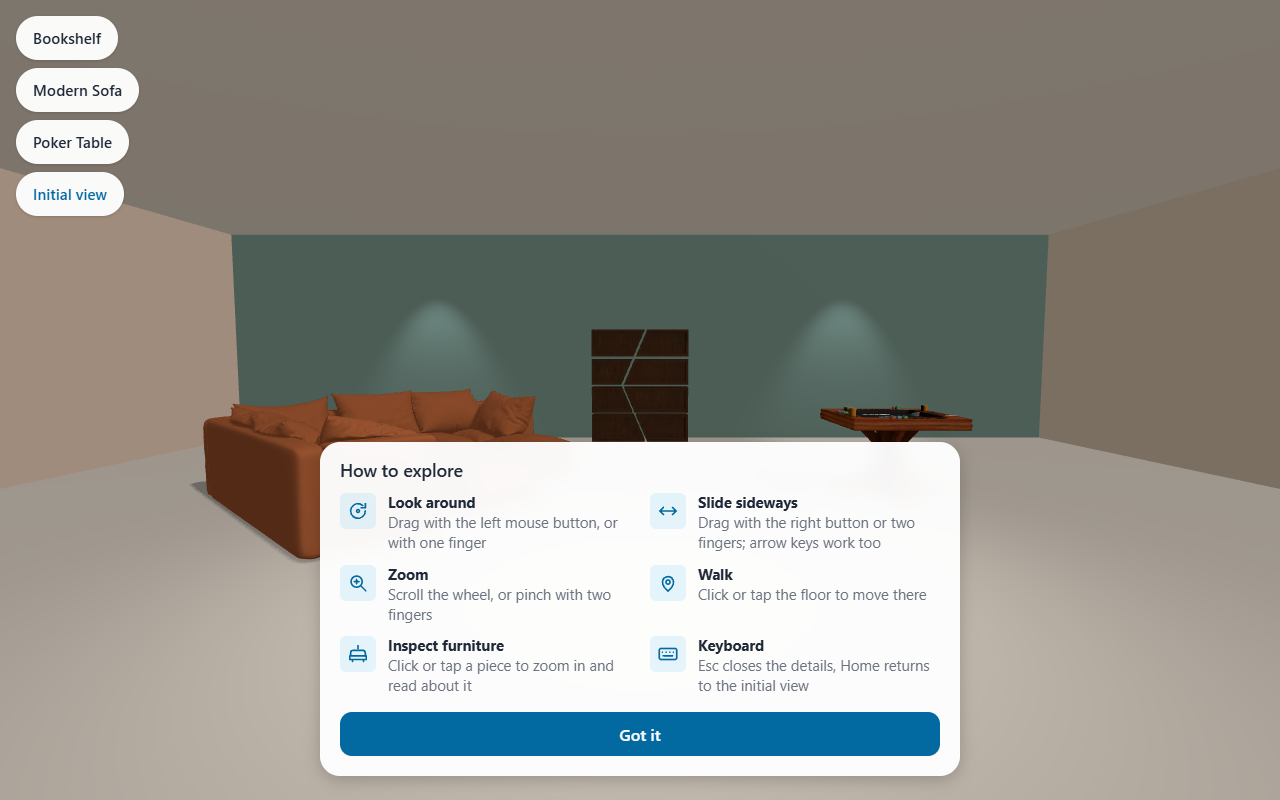
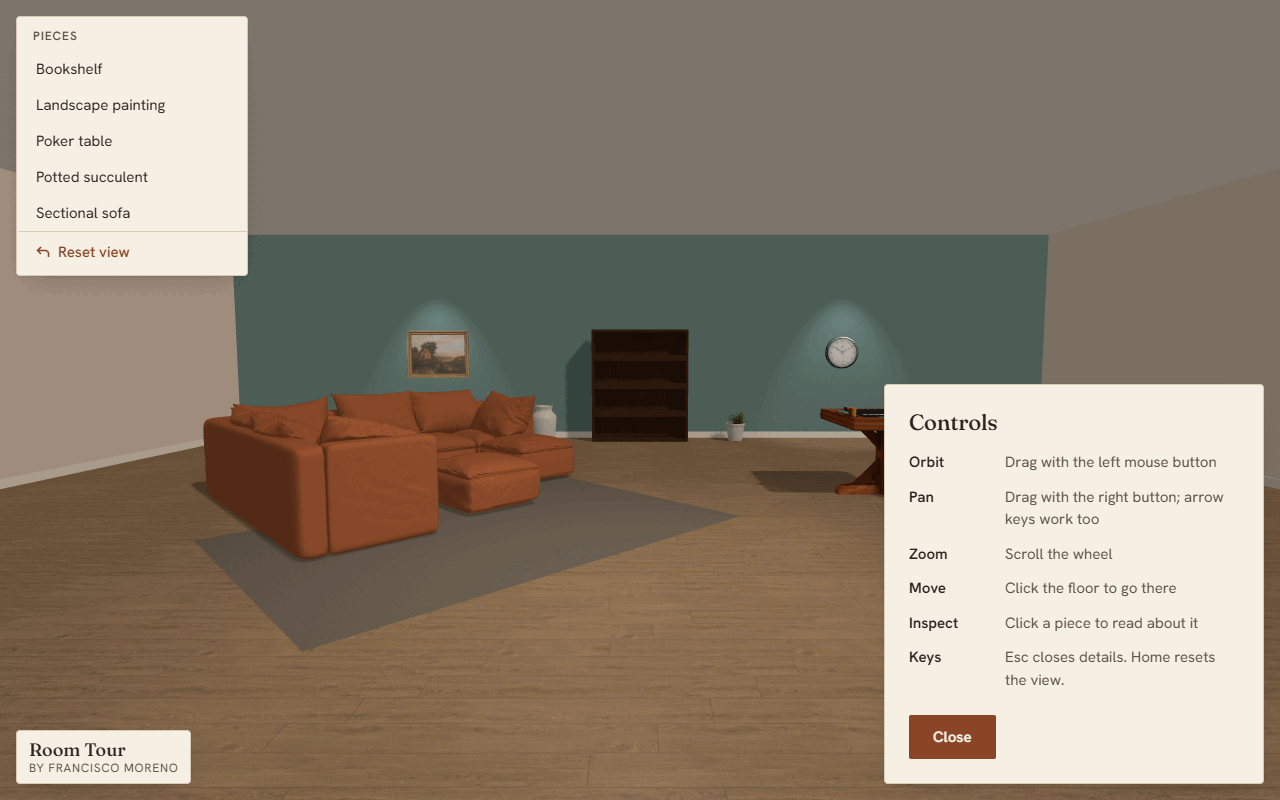
docs: credit Poly Haven and OFL fonts, document asset optimization, refresh screenshots and og image (T-290)

diff --git a/README.md b/README.md
@@ -28,7 +28,7 @@ An interactive 3D living room that runs entirely in the browser. Walk around by 
 - [Architecture](#architecture)
 - [Technical decisions](#technical-decisions)
 - [Performance](#performance)
-- [3D model credits and licenses](#3d-model-credits-and-licenses)
+- [Credits and licenses](#credits-and-licenses)
 - [Contributing](#contributing)
 - [License](#license)
 - [Author](#author)
@@ -42,7 +42,7 @@ An interactive 3D living room that runs entirely in the browser. Walk around by 
 - **Responsive**: the initial framing adapts to portrait screens so all three pieces stay visible on a phone.
 - **Realistic lighting**: soft shadows, matte walls and tuned material for the sofa.
 - **Loading and error states**: a progress screen while models download, and clear messages (with a retry button) if WebGL is unavailable, the context is lost or a model fails to load.
-- **Light assets**: the three models were reduced from about 51 MB to about 2.4 MB (see [Performance](#performance)).
+- **Light assets**: the three original models were reduced from about 51 MB to about 2.4 MB, and the whole `src/assets` folder (seven models, room textures, fonts) weighs about 3.7 MB (see [Performance](#performance)).
 
 ## Controls
 
@@ -131,7 +131,9 @@ src/app/
 ├── config/       scene configuration and UI text
 └── interfaces/   shared types
 src/assets/
-├── models/       optimized glTF models (sofa, poker_table, bookshelf)
+├── models/       optimized glTF models (sofa, poker_table, bookshelf, landscape_painting, wall_clock, succulent, ceramic_vase)
+├── textures/     floor and rug textures (WebP)
+├── fonts/        Fraunces and Hanken Grotesk (WOFF2) and their OFL license
 └── brand/        favicon, touch icon and social preview image
 docs/             assets pipeline, screenshots and baseline captures
 ```
@@ -152,14 +154,23 @@ Measured on a production build (`npm run build`):
 
 | Metric                    | Value                                |
 | ------------------------- | ------------------------------------ |
-| Initial JavaScript bundle | 843 kB raw, about 188 kB transferred |
-| 3D models (all three)     | about 2.4 MB, down from about 51 MB  |
+| Initial JavaScript bundle | 873 kB raw, about 195 kB transferred |
+| 3D models (all seven)     | 3,100,101 B (about 3.1 MB)           |
+| Room textures             | 400,862 B (about 0.4 MB)             |
+| Fonts                     | 106,659 B (about 0.1 MB)             |
+| `src/assets` in total     | 3,717,013 B (about 3.7 MB)           |
 
-Per-model sizes before and after are in [docs/assets-pipeline.md](docs/assets-pipeline.md).
+The three original models went from about 51 MB to about 2.4 MB. Per-model sizes before and after are in [docs/assets-pipeline.md](docs/assets-pipeline.md).
 
-## 3D model credits and licenses
+### How the assets are optimized
 
-The models come from [Sketchfab](https://sketchfab.com/) and are used under the Sketchfab Standard license. Credit to their authors:
+Models are optimized in place with `scripts/optimize-models.mjs` (`@gltf-transform/cli` through `npx`, not a dependency): dedup, weld and prune, textures resized (at most 1024 px) and converted to WebP at quality 85, and geometry compressed with meshopt and quantization. Room textures are plain WebP made from the 1K originals. The originals are not kept in the working tree. The full pipeline, the per-piece policy and the regeneration steps are in [docs/assets-pipeline.md](docs/assets-pipeline.md).
+
+## Credits and licenses
+
+### Sketchfab models (sofa, poker table, bookshelf)
+
+The three furniture models come from [Sketchfab](https://sketchfab.com/) and are used under the Sketchfab Standard license. Credit to their authors:
 
 | Model                                 | Author       | Source                                                                                                            |
 | ------------------------------------- | ------------ | ----------------------------------------------------------------------------------------------------------------- |
@@ -169,13 +180,30 @@ The models come from [Sketchfab](https://sketchfab.com/) and are used under the 
 
 License terms: <https://sketchfab.com/licenses>. The models were resized, texture-compressed and quantized for the web; the geometry and design are the authors' work.
 
+### Poly Haven (decor pieces and room textures)
+
+The decor and the floor and rug textures come from [Poly Haven](https://polyhaven.com/) and are released under CC0. CC0 does not require attribution; they are credited here as a courtesy.
+
+| Piece                  | Author                            | Source                                                       |
+| ---------------------- | --------------------------------- | ------------------------------------------------------------ |
+| Fancy Picture Frame 01 | Rob Tuytel, Rico Cilliers         | [Poly Haven](https://polyhaven.com/a/fancy_picture_frame_01) |
+| Wall Clock             | PierreB3D                         | [Poly Haven](https://polyhaven.com/a/wall_clock)             |
+| Potted Plant 04        | James Ray Cock                    | [Poly Haven](https://polyhaven.com/a/potted_plant_04)        |
+| Ceramic Vase 02        | James Ray Cock                    | [Poly Haven](https://polyhaven.com/a/ceramic_vase_02)        |
+| Laminate Floor 02      | Dario Barresi, Charlotte Baglioni | [Poly Haven](https://polyhaven.com/a/laminate_floor_02)      |
+| Poly Wool Herringbone  | colormass, Rico Cilliers          | [Poly Haven](https://polyhaven.com/a/poly_wool_herringbone)  |
+
+### Fonts
+
+[Fraunces](https://github.com/undercasetype/Fraunces) (headings) and [Hanken Grotesk](https://github.com/marcologous/hanken-grotesk) (interface text) are licensed under the SIL Open Font License 1.1. The license text is in [src/assets/fonts/OFL.txt](src/assets/fonts/OFL.txt).
+
 ## Contributing
 
 Setup, commands, code standards and the commit format are in [CONTRIBUTING.md](CONTRIBUTING.md).
 
 ## License
 
-The source code is released under the [MIT License](LICENSE). The 3D models keep their own licenses (see above).
+The source code is released under the [MIT License](LICENSE). The 3D models, textures and fonts keep their own licenses (see above).
 
 ## Author
 
